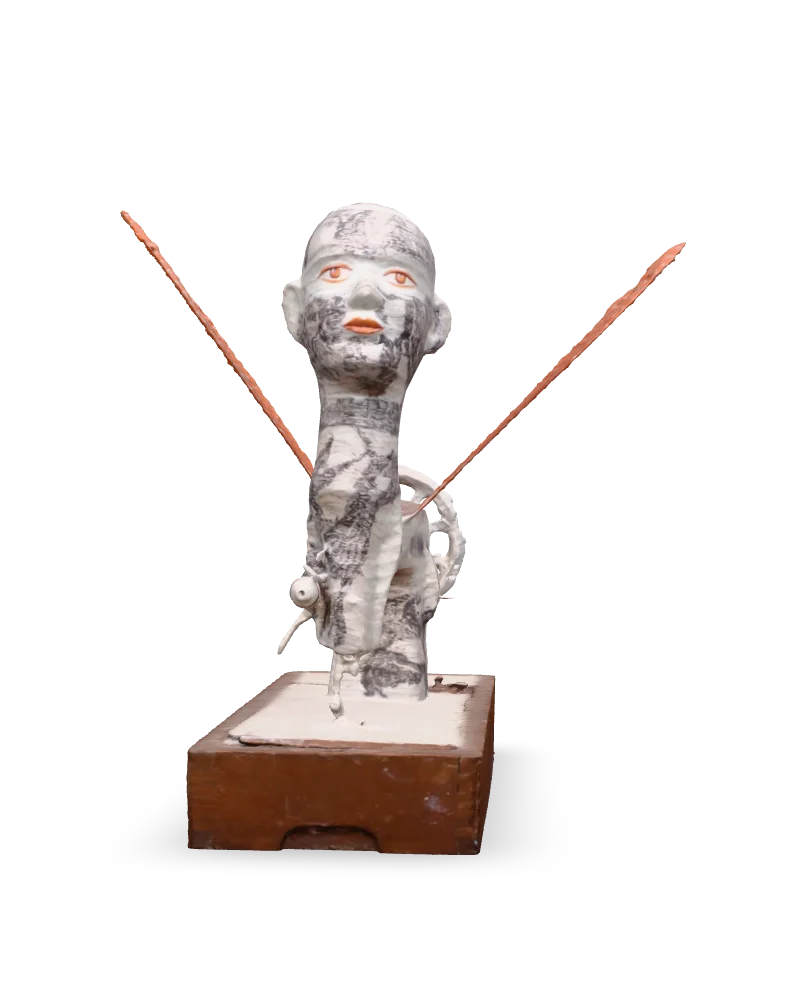
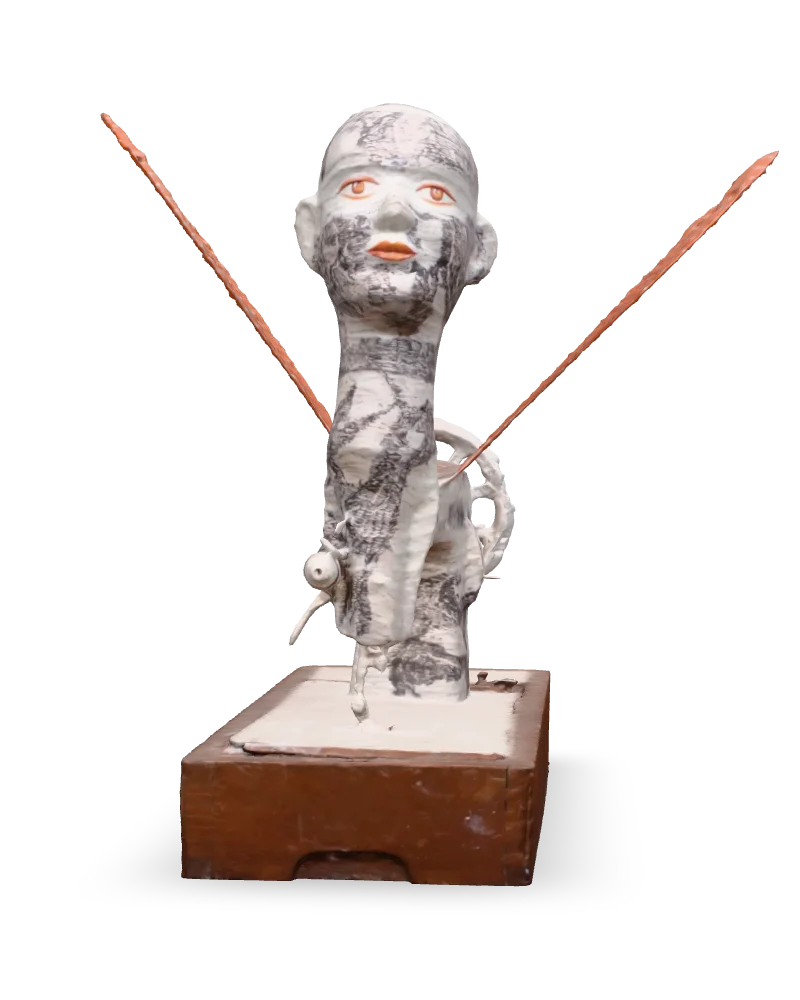
Centre and enlarge The Tailor on its card
Its long sewing-machine base sets the auto-framing, so from the front
the figure came out small and left of centre. New card-only framing in
`look`: cardZoom, cardShift and cardLift, applied as a camera view
offset so the turning hover preview still spins about the work. The
Tailor uses 1.2 / 0.045 / 0.04; thumbnail remade.

diff --git a/components/SculptureScene.tsx b/components/SculptureScene.tsx
@@ -212,10 +212,12 @@ const RevealModel: FC<{
   fit?: number;
   facing: number;
   look?: ArtworkLook;
+  /** Card framing (look.cardZoom / cardShift); thumbnails and hover previews only. */
+  cardFrame?: { zoom: number; shift: number; lift: number };
   adaptiveBg: boolean;
   onBackground?: (hex: string) => void;
   onReady?: () => void;
-}> = ({ url, offsetX, offsetY, reveal, fit, facing, look, adaptiveBg, onBackground, onReady }) => {
+}> = ({ url, offsetX, offsetY, reveal, fit, facing, look, cardFrame, adaptiveBg, onBackground, onReady }) => {
   const { scene } = useGLTF(url, DRACO_PATH);
   const lookKey = JSON.stringify(look ?? {});
   const get = useThree((state) => state.get);
@@ -322,6 +324,29 @@ const RevealModel: FC<{
   }, [normalized]);
 
   useFrame((_, delta) => {
+    // Card framing: zoom, and a sideways shift done in screen space (a view
+    // offset), so a turning preview still spins about the work's own centre.
+    // Re-applied when the canvas size changes.
+    if (cardFrame) {
+      const { camera, size } = get();
+      if (camera instanceof THREE.PerspectiveCamera) {
+        const v = camera.view;
+        const px = -cardFrame.shift * size.width;
+        const py = cardFrame.lift * size.height;
+        if (
+          camera.zoom !== cardFrame.zoom ||
+          !v ||
+          v.fullWidth !== size.width ||
+          v.fullHeight !== size.height ||
+          v.offsetX !== px ||
+          v.offsetY !== py
+        ) {
+          camera.zoom = cardFrame.zoom;
+          camera.setViewOffset(size.width, size.height, px, py, size.width, size.height);
+        }
+      }
+    }
+
     // Frame the camera once the model size and the default controls are known.
     if (!fittedRef.current) {
       const { camera, controls, size } = get();
@@ -478,7 +503,12 @@ export const SculptureContents: FC<
   const camZ = 4.0 / (defaultZoom <= 0 ? 1 : defaultZoom);
   // Thumbnails and card previews sit on a light plate, the viewer on its own
   // backdrop, so a work can be lit differently on its card.
-  const cardLight = card || isThumb ? (look?.cardLight ?? 1) : 1;
+  const onCard = card || isThumb;
+  const cardLight = onCard ? (look?.cardLight ?? 1) : 1;
+  const cardFrame =
+    onCard && (look?.cardZoom || look?.cardShift || look?.cardLift)
+      ? { zoom: look.cardZoom ?? 1, shift: look.cardShift ?? 0, lift: look.cardLift ?? 0 }
+      : undefined;
   const light = (look?.light ?? 1) * cardLight;
   const rig = rigFor(rigName ?? look?.rig);
   return (
@@ -531,6 +561,7 @@ export const SculptureContents: FC<
           fit={fit}
           facing={facing}
           look={look}
+          cardFrame={cardFrame}
           adaptiveBg={!isThumb && adaptiveBackground}
           onBackground={onBackground}
           onReady={onReady}

diff --git a/lib/sculptures.ts b/lib/sculptures.ts
@@ -100,6 +100,16 @@ export interface ArtworkLook {
    * itself, so it looks like its thumbnail (which has none).
    */
   selfShadow?: boolean;
+  /**
+   * Card framing (thumbnail and hover preview): `cardZoom` enlarges the work
+   * (1.2 = 20% bigger), `cardShift` moves it sideways by a fraction of the
+   * card's width (+ = right) and `cardLift` up by a fraction of its height.
+   * For works whose auto-framing leaves them small or off-centre, e.g. long
+   * parts sticking out.
+   */
+  cardZoom?: number;
+  cardShift?: number;
+  cardLift?: number;
 }
 
 /** AR height for works whose real height (`heightCm`) isn't known yet. */
@@ -491,8 +501,9 @@ export const sculptures: Sculpture[] = [
     title: "The Tailor",
     description: "",
     artistSlug: "yusuf",
-    thumbnail: "/thumbnails/yusuf-the-tailor.webp?v=3",
+    thumbnail: "/thumbnails/yusuf-the-tailor.webp?v=4",
     modelUrl: "/sculptures/yusuf-untitled-sewing-machine.glb",
+    look: { cardZoom: 1.2, cardShift: 0.045, cardLift: 0.04 },
     facing: 150,
     material: "Bronze",
     year: "",

diff --git a/docs/lighting-progress.md b/docs/lighting-progress.md
@@ -20,6 +20,7 @@ Many scans looked "flashy". Painted works (Thota heads, Khanna bandsmen, …) we
   | `specular` | *sets* the paint's sheen 0–1 (fixes scans exported with 0) |
   | `cardLight` | multiplies light and reflections on the catalogue card only (thumbnail + hover preview), not the artwork-page viewer |
   | `selfShadow` | `false` = the viewer drops the shadows the work casts on itself (thumbnails never have them), so the two match |
+  | `cardZoom` / `cardShift` / `cardLift` | card framing only (thumbnail + hover): zoom, sideways shift (fraction of width, + = right), upward shift (fraction of height). Done as a camera view offset, so the turning preview still spins about the work. Check the side view too, so a turning preview isn't cropped |
   | `rig` | `"previous"` = use the old filmic light for this work (tone mapping set per scene, so it works in the shared hover renderer too) |
 
 - **Applied in** `components/SculptureScene.tsx`: `prepareMaterial` handles the material fixes for every work (transmission off, specular colour capped) plus `look`. `SculptureContents` builds the lights.
@@ -47,7 +48,8 @@ User's taste: **matte and natural, not shiny**. The user judges each work by eye
 | Bronze Long-Hair head | `{ metalness: 0.2, roughness: 1.8, reflections: 0.6 }` | the bronze setting still glared on its face |
 | Lady | `{ light: 1.8, reflections: 2.5, sideLights: 1 }` | dark patina read as dull black |
 | Glossy non-metal | `{ roughness: 2, reflections: 0.6 }` / `{ roughness: 1.8, reflections: 0.7 }` | Ghosh / Matar |
-| Untouched | — | Tailor, Cat, Man from Moon |
+| Tailor | `{ cardZoom: 1.2, cardShift: 0.045, cardLift: 0.04 }` | framing only: its long sewing-machine base made it small and off-centre on the card |
+| Untouched | — | Cat, Man from Moon |
 
 ## Changing a work
 1. Dev server: `npx next dev --webpack -p 3000` (Turbopack crashes on this machine).
